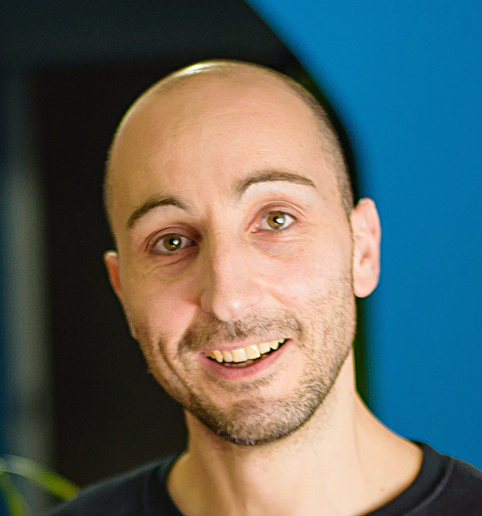
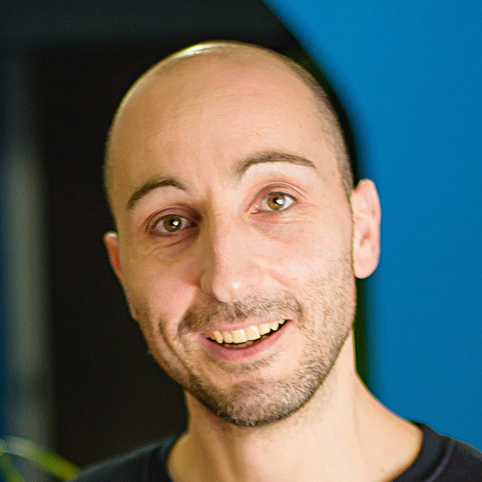
update mini conf landing

diff --git a/www/src/pages/graphql/mini-conference/index.js b/www/src/pages/graphql/mini-conference/index.js
@@ -260,8 +260,10 @@ const GraphQLPage = ({ data, path, trainings }) => {
                         circle
                         fluid={speakerImages[imageName]}
                         sx={{
-                          width: '120px',
-                          height: '120px',
+                          display: 'flex',
+                          width: ['80px', '120px'],
+                          height: ['80px', '120px'],
+                          minWidth: '80px',
                           mr: 2,
                           mb: 1,
                         }}

diff --git a/www/src/components/elements/Image.js b/www/src/components/elements/Image.js
@@ -11,7 +11,7 @@ const Image = withLazyLoad()(styled(Box)`
 Image.defaultProps = {
   box: 'img',
 }
-const StyledGatsbyImage = ({ circle, sx, ...rest }) => {
+const StyledGatsbyImage = ({ circle, sx = {}, ...rest }) => {
   if (circle) {
     sx.borderRadius = '50%'
   }
